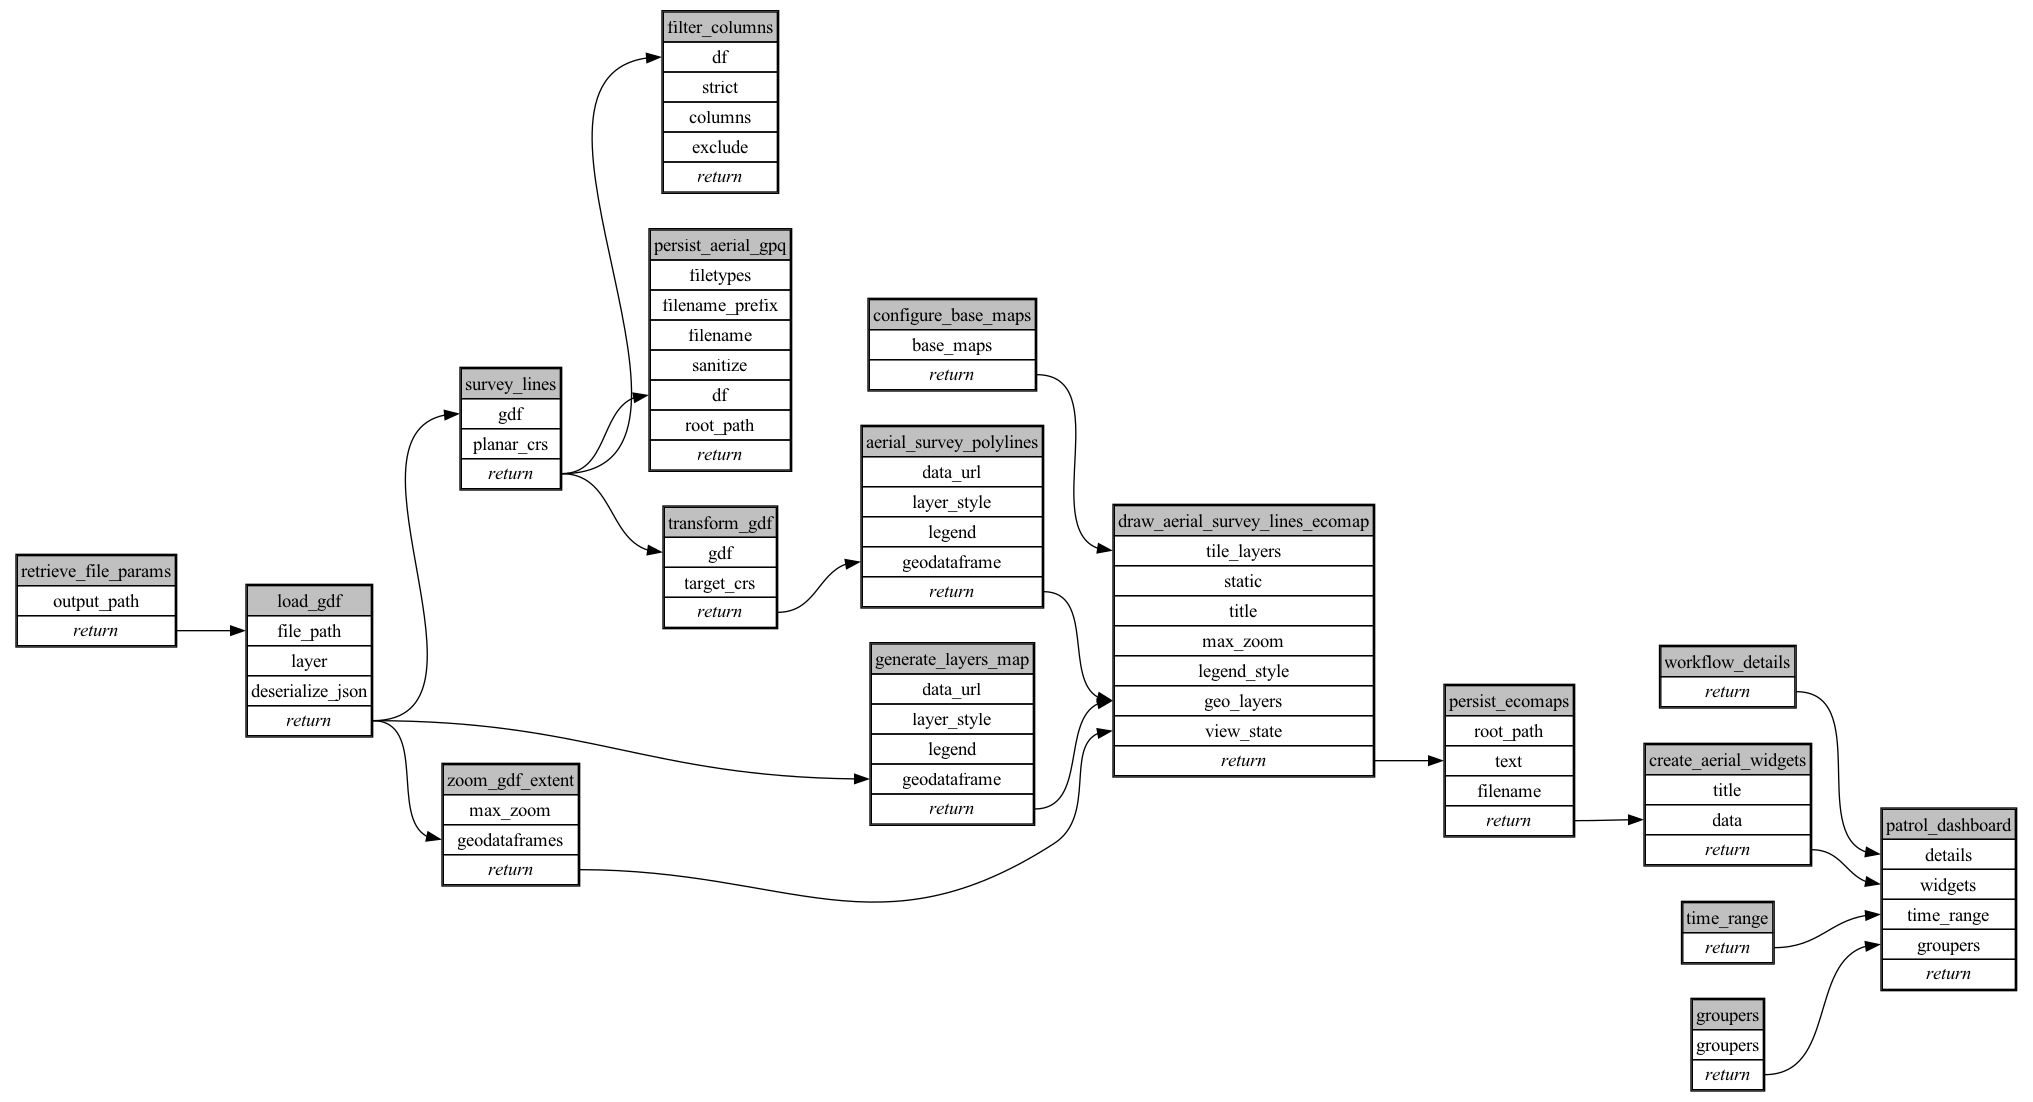
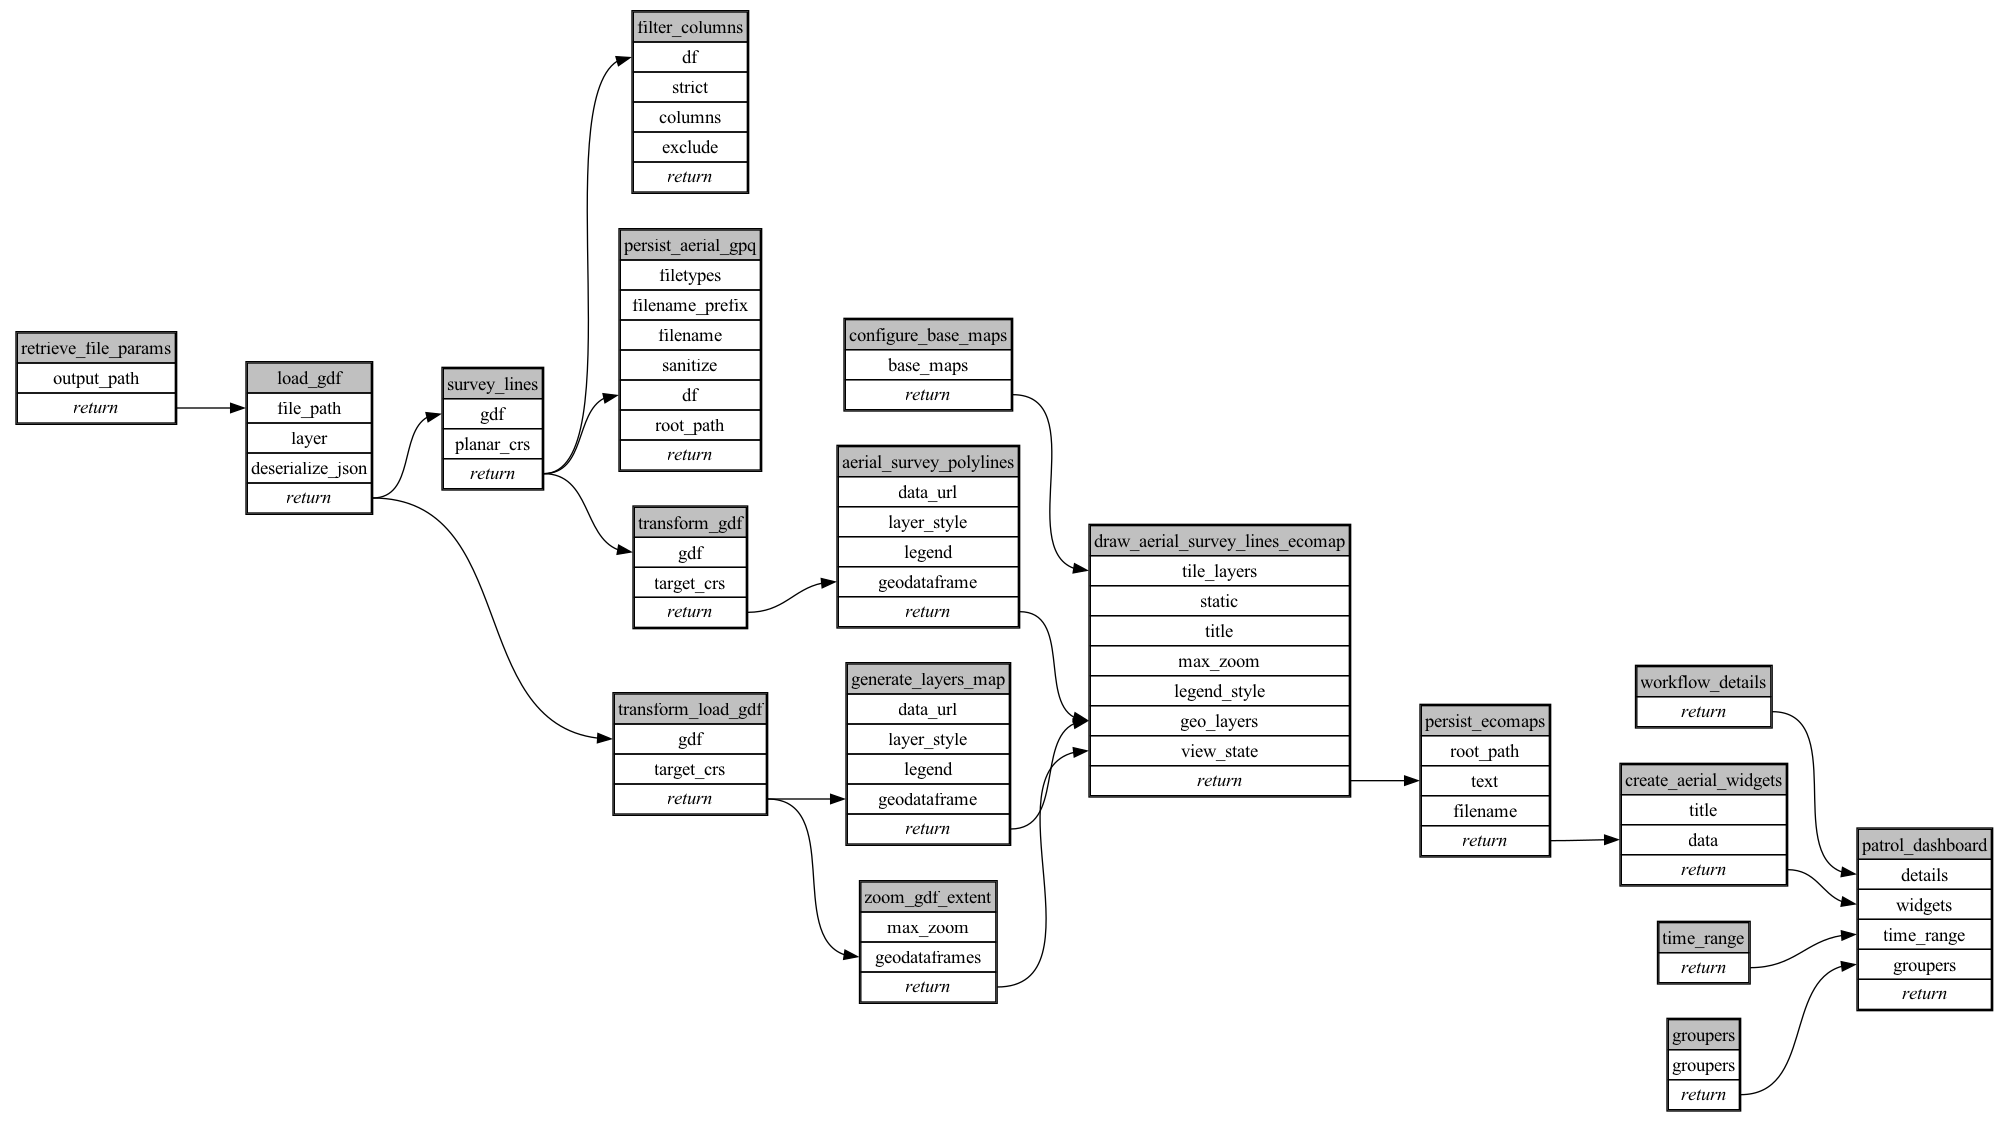
reproject to epsg4326 for mapping:

Changed region(s): [[0.0, 0.0, 1.0, 1.0], [0.0, 0.4936, 0.216, 0.6788]]

diff --git a/ecoscope-workflows-aerial-survey-roi-workflow/ecoscope_workflows_aerial_survey_roi_workflow/dags/run_sequential.py b/ecoscope-workflows-aerial-survey-roi-workflow/ecoscope_workflows_aerial_survey_roi_workflow/dags/run_sequential.py
@@ -258,6 +258,27 @@ def main(params: dict[str, Any], validate_params_schema: bool = True):
         .call()
     )
 
+    transform_load_gdf = (
+        task(reproject_gdf)
+        .validate()
+        .set_task_instance_id("transform_load_gdf")
+        .handle_errors()
+        .with_tracing()
+        .skipif(
+            conditions=[
+                any_is_empty_df,
+                any_dependency_skipped,
+            ],
+            unpack_depth=1,
+        )
+        .partial(
+            gdf=load_gdf,
+            target_crs="EPSG:4326",
+            **(params.get("transform_load_gdf") or {}),
+        )
+        .call()
+    )
+
     generate_layers_map = (
         task(create_geojson_layer_1)
         .validate()
@@ -293,7 +314,7 @@ def main(params: dict[str, Any], validate_params_schema: bool = True):
                 "title": "",
                 "values": [{"label": "Area of Interest", "color": "#556b2f"}],
             },
-            geodataframe=load_gdf,
+            geodataframe=transform_load_gdf,
             **(params.get("generate_layers_map") or {}),
         )
         .call()
@@ -355,7 +376,7 @@ def main(params: dict[str, Any], validate_params_schema: bool = True):
         )
         .partial(
             max_zoom=15,
-            geodataframes=[load_gdf],
+            geodataframes=[transform_load_gdf],
             **(params.get("zoom_gdf_extent") or {}),
         )
         .call()

diff --git a/ecoscope-workflows-aerial-survey-roi-workflow/ecoscope_workflows_aerial_survey_roi_workflow/dags/run_sequential_mock_io.py b/ecoscope-workflows-aerial-survey-roi-workflow/ecoscope_workflows_aerial_survey_roi_workflow/dags/run_sequential_mock_io.py
@@ -269,6 +269,27 @@ def main(params: dict[str, Any], validate_params_schema: bool = True):
         .call()
     )
 
+    transform_load_gdf = (
+        task(reproject_gdf)
+        .validate()
+        .set_task_instance_id("transform_load_gdf")
+        .handle_errors()
+        .with_tracing()
+        .skipif(
+            conditions=[
+                any_is_empty_df,
+                any_dependency_skipped,
+            ],
+            unpack_depth=1,
+        )
+        .partial(
+            gdf=load_gdf,
+            target_crs="EPSG:4326",
+            **(params.get("transform_load_gdf") or {}),
+        )
+        .call()
+    )
+
     generate_layers_map = (
         task(create_geojson_layer_1)
         .validate()
@@ -304,7 +325,7 @@ def main(params: dict[str, Any], validate_params_schema: bool = True):
                 "title": "",
                 "values": [{"label": "Area of Interest", "color": "#556b2f"}],
             },
-            geodataframe=load_gdf,
+            geodataframe=transform_load_gdf,
             **(params.get("generate_layers_map") or {}),
         )
         .call()
@@ -366,7 +387,7 @@ def main(params: dict[str, Any], validate_params_schema: bool = True):
         )
         .partial(
             max_zoom=15,
-            geodataframes=[load_gdf],
+            geodataframes=[transform_load_gdf],
             **(params.get("zoom_gdf_extent") or {}),
         )
         .call()

diff --git a/ecoscope-workflows-aerial-survey-roi-workflow/README.md b/ecoscope-workflows-aerial-survey-roi-workflow/README.md
@@ -5,8 +5,8 @@
 
 ```yaml
 # fingerprint:
-artifacts_sha256_basic: 754e553e7d432c418d61ed979aa638bc149615f57593a192d48684c7f5ff5b5c
-artifacts_sha256_strict: 6d550ad0cbdcb6def3af0bac9e3147541c941345d2bb91923c1a70da65fa74fb
+artifacts_sha256_basic: ae44cbab34daff75f0e382cfd86c6bfbbf17356bb1edc6962e51f4e0062bba27
+artifacts_sha256_strict: 3b0625dac443b093eb833790791352226f13d26a2d1df0b45a2748ddea18dffc
 installed_requirements:
 - channel: https://repo.prefix.dev/ecoscope-workflows/
   name: ecoscope-platform
@@ -21,7 +21,7 @@ installed_requirements:
   name: pydeck
   version: {version: ==0.9.2}
 params_sha256: e7b8ef880bd6c73a47cbc923e0054017a12fea32fb9ebd0b9b96a75586ad4bf1
-spec_sha256: 558c3425393a19c92efcbbc80e41a5c6594290392bc75923887fc3693bf44b83
+spec_sha256: 51c40c70a2091407cea497543feee9a4be3d0ce75cda770d9cb9f4f6879e1947
 
 ```
 
